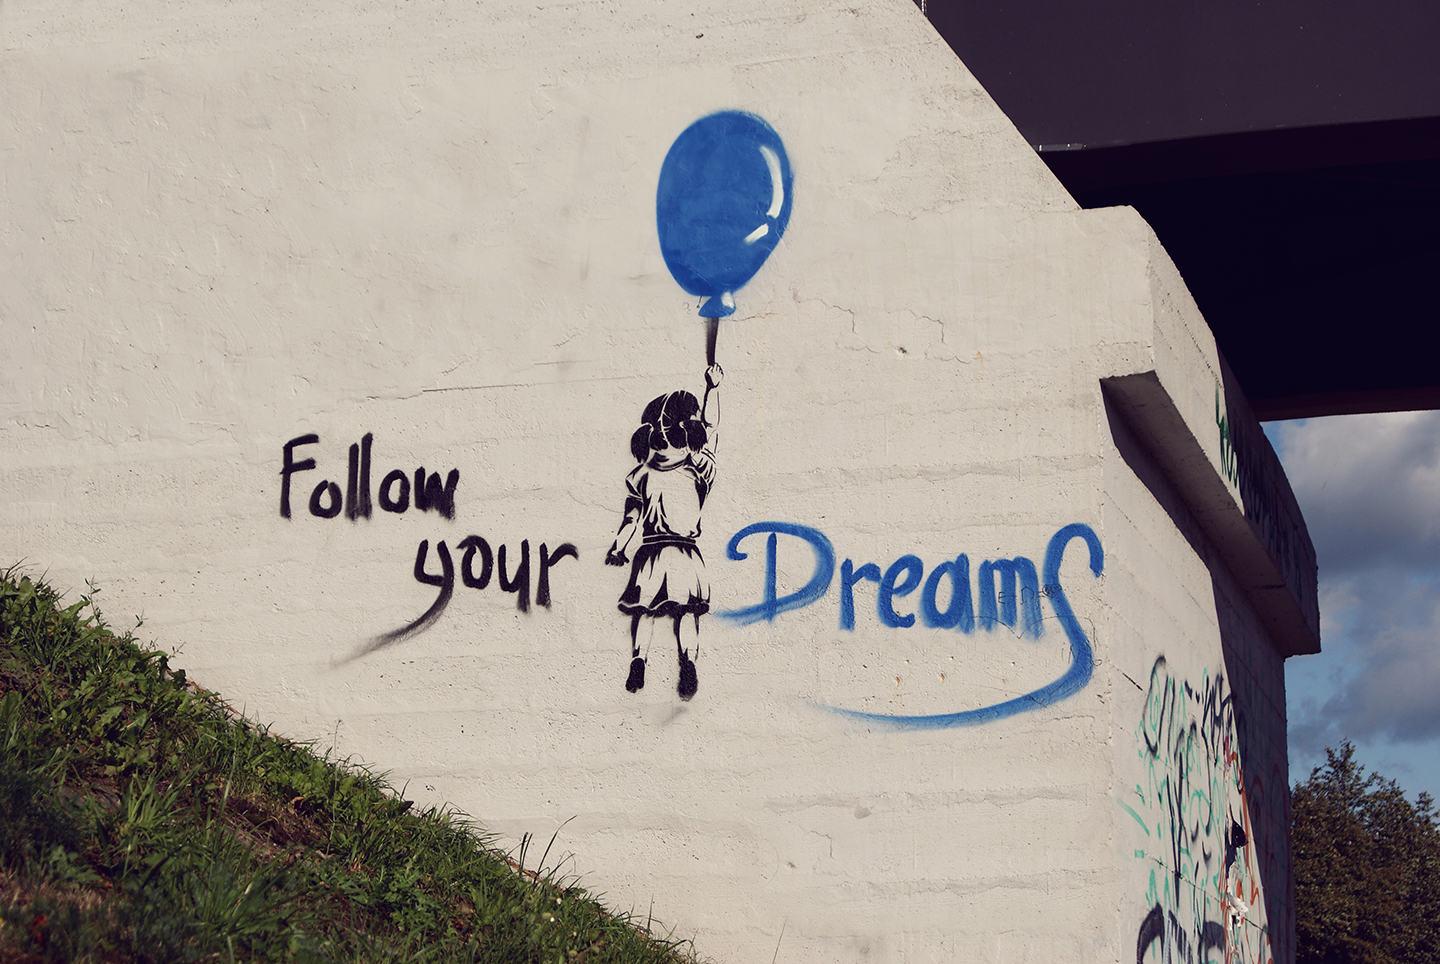
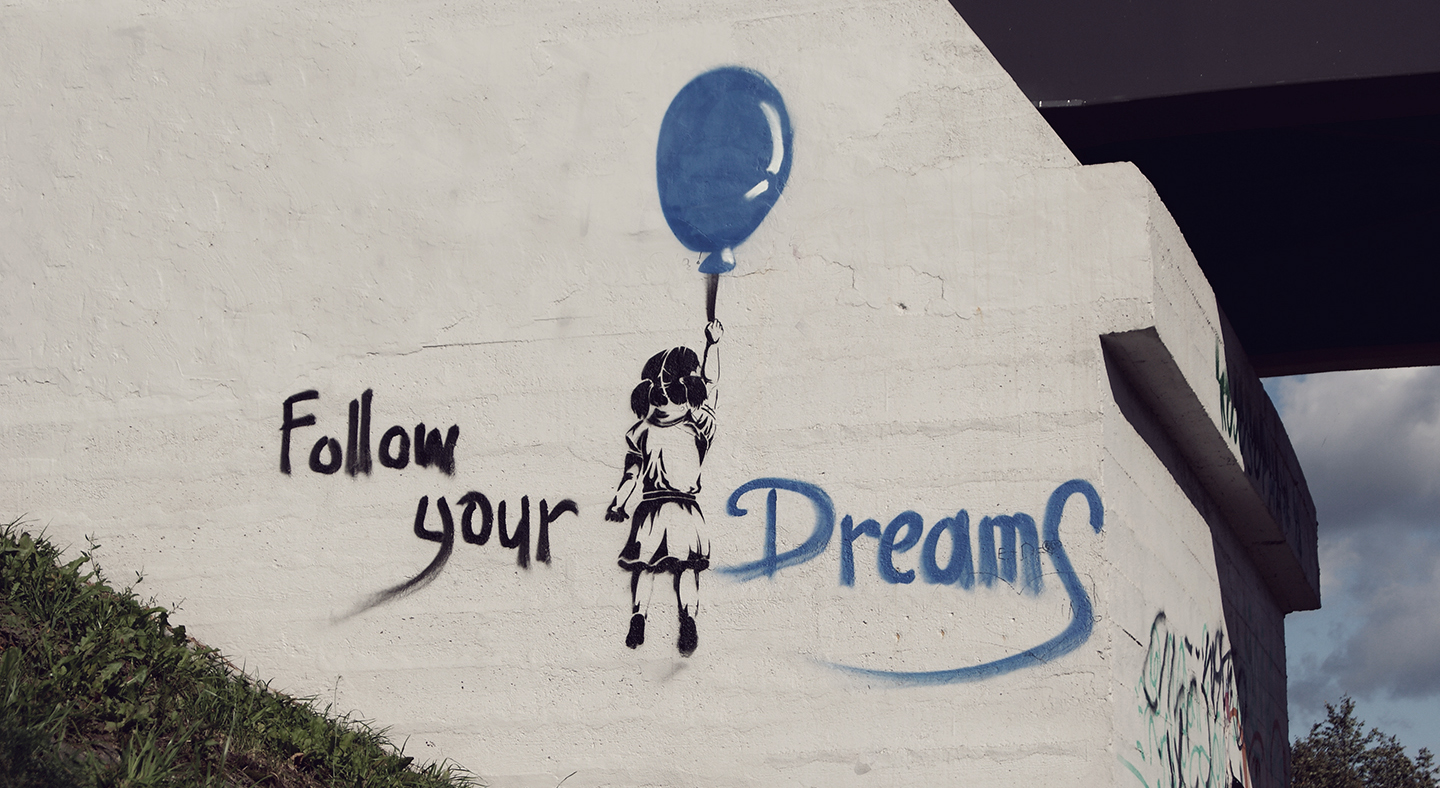
Changes on about and index
Info on about page
Link colours
Main picture

diff --git a/Portfolio/css/style.css b/Portfolio/css/style.css
@@ -13,19 +13,19 @@ a {
 }
 
 
-.birds {
+/*.main {
 	width: 100%;
 	height: 300px;
-	background: url(../img/birds.JPG) center;
-	background-size: 1440px 964px;
+	background: url(../img/main.JPG) center;
+	background-size: 1440px 788px;
 	border-bottom: #101010 3px solid;
-}
+}*/
 
 .dreams {
 	width: 100%;
 	height: 300px;
 	background: url(../img/dreams.jpg) center;
-	background-size: 1440px 964px;
+	background-size: 1440px 788px;
 	border-bottom: #101010 3px solid;
 }
 
@@ -92,7 +92,6 @@ SKILL SECTION
 	margin: 3%;
 	color: #BDC3C7;
 	list-style: none;
-/*	margin: 5px 26px;*/
 
 }
 
@@ -101,14 +100,14 @@ PAGE: ABOUT
 *************************/
 
 #about {
-	margin: 0;
+	margin: 1%
 	padding: 0 5%;
 	max-width: 1000px;
 }
 
 .aboutBox {
-	right: 450px;
-	left: 450px;
+	right: 45%;
+	left: 45%;
 }
 
 .profilePhoto {
@@ -121,7 +120,7 @@ PAGE: ABOUT
 }
 
 .profileBox {
-	margin-bottom: 15%;
+	margin-bottom: 16%;
 }
 
 #primary p {
@@ -142,7 +141,7 @@ PAGE: ABOUT + CONTACT
 #secondary ul {
 	list-style: none;
 	list-style-image: none;
-	margin-top: -155%;
+	margin-top: -145%;
 	margin-right: 40px;
 
 }
@@ -190,13 +189,13 @@ header nav ul li {
 }
 
 header nav ul li a:hover, header nav ul li a.active {
-	color: rgba(200, 200, 200, 0.9);
+	color: rgba(34, 33, 45, 0.85);
 }
 
 header nav ul li a {
 	text-decoration: none;
 	font-family: 'Overlock', cursive;
-	color: rgba(178, 178, 178, 0.8);
+	color: rgba(121, 116, 124, 0.95);
 	text-transform: uppercase;
 	font-weight: 700;
 	position: relative;
@@ -218,7 +217,7 @@ nav ul {
 
 /* selected nav link */
 nav a.selected, nav a:hover {
-	color: #F0F0F0;
+	color: rgba(34, 33, 45, 0.85);
 }
 
 /* nav transition effect */
@@ -241,7 +240,7 @@ footer {
 	padding-top: 2%;
 	padding-bottom: 0.05px;
 	color: #777777;
-	background-color: #C7C7C7;
+	background-color: rgba(201, 196, 188, 0.85);
 	border-top: #919191 1px solid;
 }
 
@@ -272,17 +271,17 @@ COLORS
 
 /* links */
 a {
-	color: rgba(178, 178, 178, 0.8);
+	color: rgba(121, 116, 124, 0.95);
 }
 
 /* nav link */
 nav a, nav a:visited {
-	color: rgba(178, 178, 178, 0.8);
+	color: rgba(121, 116, 124, 0.95);
 }
 
 /* selected nav link */
 nav a.selected, nav a:hover {
-	color: rgba(200, 200, 200, 0.9);
+	color: rgba(34, 33, 45, 0.85);
 }
 
 

diff --git a/Portfolio/about.html b/Portfolio/about.html
@@ -32,7 +32,7 @@
           	 <section id="primary">
           	 	 <div class="aboutBox">
 			          <h3>About me</h3>
-			          <p>My name is Anastasija. I graduated as a bachelor in philology from Vilnius University Faculty of Humanities in my hometown Kaunas, Lithuania. The idea of becoming a web-designer was given by my boyfriend before graduating University. At that moment my mind was set at becoming a translator.<br>After unsuccessful applications my boyfriend suggested on becoming a web-designer again and I agreed. All the translation possibilities were in large cities and a web-designer career gave more chances on finding a job.<br>I really enjoy working on websites and polishing up my skills.<br>
+			          <p>My name is Anastasija. I graduated as a bachelor in philology from Vilnius University Faculty of Humanities in my hometown Kaunas, Lithuania. The idea of becoming a web-designer was given by my boyfriend before graduating University. At that moment my mind was set at becoming a translator.<br>After unsuccessful applications - my boyfriend suggested on becoming a web-designer again. All the translator jobs were in large cities and a web-designer career gave more chances on finding a job. So I agreed.<br>When I started learning - I had some basic knoweledge, so it made a little easier in understanding and learning.<br>I really enjoy working on websites and polishing up my skills.
 			          If you'd like to follow me on Twitter, my user name is <a href="http://www.twtter.com/na7tiu6ka">@na7tiu6ka</a>.</p>
 			      </div>
 		      </section>

diff --git a/Portfolio/index.html b/Portfolio/index.html
@@ -8,7 +8,7 @@
 		<link rel="stylesheet" href="css/style.css">
 	</head>
 	<body>
-		<div class="birds">
+		<div class="dreams">
 			<header class="wrapper">
 				<nav>
 					<ul>

diff --git a/Portfolio/work.html b/Portfolio/work.html
@@ -8,7 +8,7 @@
 		<link rel="stylesheet" href="css/style.css">
 	</head>
 	<body>
-		<div class="birds">
+		<div class="dreams">
 			<header class="wrapper">
 				<nav>
 					<ul>
